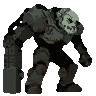
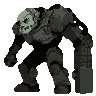
fix(art): 修正铁臂蛮兵立绘朝向（水平镜像）
a2_brute_none 原立绘白面具脸在画面右侧、整体 3/4 背向玩家；战场为玩家在左、敌人在右，敌人须朝左。纯水平镜像 assets/characters/a2_brute_none/idle_01.png：尺寸 96x96 与 alpha 像素数 5229 不变，与备份的镜像逐像素一致，.import 无需改动。

新增 tools/flip_enemy_art.py：可批量、带 --preview 对比图与自动备份，供后续全库朝向排查使用。本轮只改这一只，其余 60 只立绘未动，朝向判断交回实机验收。

diff --git a/tools/flip_enemy_art.py b/tools/flip_enemy_art.py
@@ -1,0 +1,68 @@
+#!/usr/bin/env python3
+"""敌人立绘朝向修正：水平镜像 idle_01.png。
+
+约定：StageRow 为 HBoxContainer，玩家在左、敌人在右；玩家小人朝右，
+所以敌人立绘必须 3/4 侧身朝左面向玩家。AI 出图偶尔会定成朝右，需人工核对后镜像。
+
+仅做纯镜像：尺寸、alpha、调色板全部不变，.import 不需要改（Godot 会检测文件变化重新导入）。
+原图自动备份到 .workbuddy/art_trials/orientation_backup/，可随时回退。
+
+用法：
+  py -3.15 tools/flip_enemy_art.py a2_brute_none --preview   # 只出对比图，不写正式资源
+  py -3.15 tools/flip_enemy_art.py a2_brute_none             # 备份 + 镜像写回
+  py -3.15 tools/flip_enemy_art.py a2_brute_none a3_brute_none   # 批量
+"""
+import os
+import shutil
+import sys
+
+from PIL import Image, ImageDraw
+
+ROOT = os.path.dirname(os.path.dirname(os.path.abspath(__file__)))
+CHAR = os.path.join(ROOT, "assets/characters")
+TRIALS = os.path.join(ROOT, ".workbuddy/art_trials")
+BACKUP = os.path.join(TRIALS, "orientation_backup")
+
+
+def main() -> None:
+    args = [a for a in sys.argv[1:] if not a.startswith("--")]
+    preview = "--preview" in sys.argv
+    assert args, "请给出至少一个房间名（assets/characters/ 下的目录名）"
+    os.makedirs(BACKUP, exist_ok=True)
+
+    S, cell, pad = 4, 96 * 4 + 20, 20
+    canvas = Image.new("RGBA", (pad + cell * len(args), pad + 96 * S + 44), (29, 18, 25, 255))
+    d = ImageDraw.Draw(canvas)
+
+    for i, room in enumerate(args):
+        src = os.path.join(CHAR, room, "idle_01.png")
+        assert os.path.exists(src), f"找不到 {src}"
+        im = Image.open(src).convert("RGBA")
+        assert im.size == (96, 96), f"{room}: 期望 96x96，实际 {im.size}"
+        flipped = im.transpose(Image.FLIP_LEFT_RIGHT)
+
+        x = pad + i * cell
+        d.text((x, pad), room, fill=(225, 220, 210, 255))
+        d.text((x, pad + 14), "BEFORE (faces right)", fill=(240, 170, 120, 255))
+        d.text((x + 96 * S // 2, pad + 14), "AFTER (faces left)", fill=(130, 220, 150, 255))
+        # 并排放原图 / 镜像，各 2 倍，便于直接对照
+        half = im.resize((96 * 2, 96 * 2), Image.NEAREST)
+        fh = flipped.resize((96 * 2, 96 * 2), Image.NEAREST)
+        canvas.alpha_composite(half, (x, pad + 32))
+        canvas.alpha_composite(fh, (x + 96 * 2, pad + 32))
+        canvas.alpha_composite(flipped.resize((96 * S, 96 * S), Image.NEAREST), (x, pad + 32 + 96 * 2 + 8))
+
+        if not preview:
+            bak = os.path.join(BACKUP, f"{room}_idle_01.png")
+            if not os.path.exists(bak):
+                shutil.copy2(src, bak)
+            flipped.save(src)
+        print(f"{room:28s} 96x96 镜像{'（预览，未写入）' if preview else ' 已写回'}  备份: {BACKUP}")
+
+    out = os.path.join(TRIALS, "orientation_flip_compare.png")
+    canvas.convert("RGB").save(out)
+    print(f"对比图：{out}")
+
+
+if __name__ == "__main__":
+    main()
